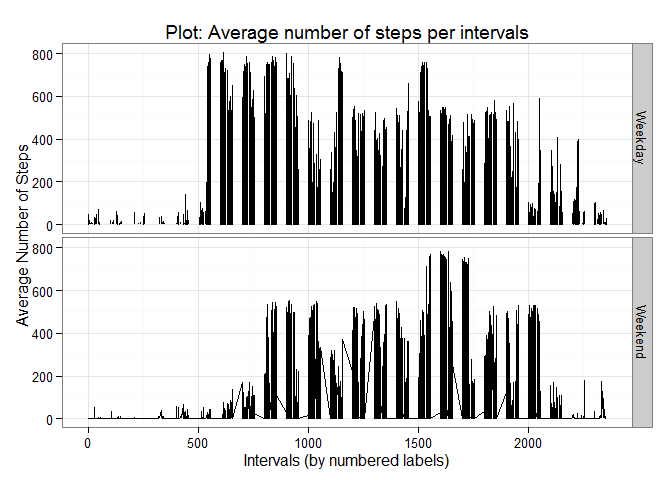
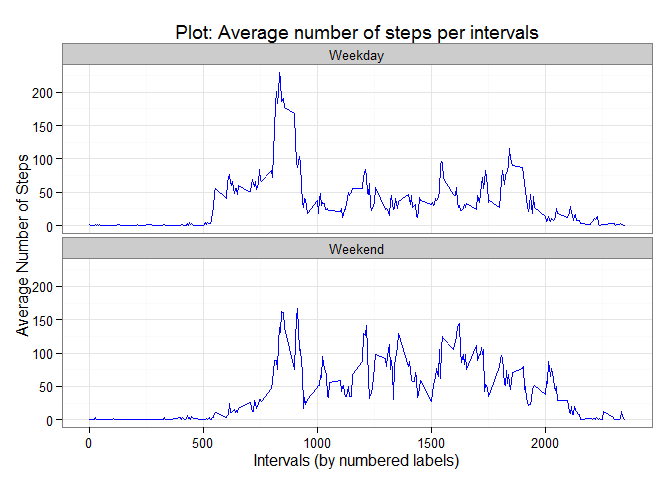
All validated & Defects Corrected
All validated & Defects Corrected

diff --git a/PA1_template.html b/PA1_template.html
@@ -93,8 +93,7 @@ library(dplyr)</code></pre>
 ## The following objects are masked from 'package:base':
 ## 
 ##     intersect, setdiff, setequal, union</code></pre>
-<pre class="r"><code>#library(tidyr)
-library(ggplot2)
+<pre class="r"><code>library(ggplot2)
 
 # Loading the data
 tracking_data &lt;- tbl_df(read.csv(file=&quot;./activity.csv&quot;))
@@ -225,7 +224,7 @@ nrow(tracking_data) - sum(complete.cases(tracking_data))</code></pre>
 <ol start="2" style="list-style-type: decimal">
 <li>Devise a strategy for filling in all of the missing values in the dataset. The strategy does not need to be sophisticated. For example, you could use the mean/median for that day, or the mean for that 5-minute interval, etc.</li>
 </ol>
-<p>For each row with an ‘NA’ value for the ‘steps’ variable, retrieve the mean value for that time intervals and insert it for that observations.</p>
+<p>For each row with an ‘NA’ value for the ‘steps’ variable, retrieve the mean value for that specific time intervals (using the analysis when all ‘NA’ values are ignored) and insert it for that specific observation. The same process is applied for all rows (i.e. observations) matching that criteria.</p>
 <ol start="3" style="list-style-type: decimal">
 <li>Create a new dataset that is equal to the original dataset but with the missing data filled in.</li>
 </ol>
@@ -233,8 +232,9 @@ nrow(tracking_data) - sum(complete.cases(tracking_data))</code></pre>
 tracking_data_copy &lt;- tracking_data
 
 # Assign the mean for the 'NA'ed steps variable
-tracking_data_copy[!complete.cases(tracking_data_copy), ]$steps &lt;- 
-  avg_daily_pattern[avg_daily_pattern$interval == tracking_data_copy[!complete.cases(tracking_data_copy), ]$interval, ]$AVGNUMBERSTEPS
+missing_val &lt;- tracking_data_copy[is.na(tracking_data_copy$steps),]
+missing_index &lt;- match(missing_val$interval,avg_daily_pattern$interval)
+tracking_data_copy$steps[is.na(tracking_data_copy$steps)] &lt;- avg_daily_pattern$AVGNUMBERSTEPS[missing_index]
 
 # For future references
 #write.csv(tracking_data_copy, file=&quot;tracking_data_copy.csv&quot;, row.names=FALSE)</code></pre>
@@ -257,7 +257,7 @@ ggplot(total_steps_completed_analysis, aes(x=DATE)) +
   labs(title=&quot;Histogram: Total Number of Steps each day&quot;) +
   labs(subtitle=&quot;Cases were completed for variable 'steps' with 'NA' value.&quot;) +
   theme_bw()</code></pre>
[2 lines of base64/hex data omitted]
 <pre class="r"><code># Limit the report to the required variables (date, average total of steps and median of steps, in this case)
 total_steps_completed_analysis %&gt;%
   select(DATE, AVGTOTALSTEPS, MEDIANTOTALSTEPS) %&gt;%
@@ -272,10 +272,75 @@ total_steps_completed_analysis %&gt;%
 ## 5  2012-10-05      46.15972          0.00000
 ## 6  2012-10-06      53.54167          0.00000
 ## 7  2012-10-07      38.24653          0.00000
-## 8  2012-10-08            NA               NA
+## 8  2012-10-08      37.38260         34.11321
 ## 9  2012-10-09      44.48264          0.00000
 ## 10 2012-10-10      34.37500          0.00000
 ## ..        ...           ...              ...</code></pre>
+<pre class="r"><code># Examine and print out the differences between the original and new analysis of the steps count
+total_steps_completed_analysis - total_steps_analysis</code></pre>
+<pre><code>##      DATE TOTALSTEPS AVGTOTALSTEPS MEDIANTOTALSTEPS
+## 1  0 days   10766.19           NaN               NA
+## 2  0 days       0.00             0                0
+## 3  0 days       0.00             0                0
+## 4  0 days       0.00             0                0
+## 5  0 days       0.00             0                0
+## 6  0 days       0.00             0                0
+## 7  0 days       0.00             0                0
+## 8  0 days   10766.19           NaN               NA
+## 9  0 days       0.00             0                0
+## 10 0 days       0.00             0                0
+## 11 0 days       0.00             0                0
+## 12 0 days       0.00             0                0
+## 13 0 days       0.00             0                0
+## 14 0 days       0.00             0                0
+## 15 0 days       0.00             0                0
+## 16 0 days       0.00             0                0
+## 17 0 days       0.00             0                0
+## 18 0 days       0.00             0                0
+## 19 0 days       0.00             0                0
+## 20 0 days       0.00             0                0
+## 21 0 days       0.00             0                0
+## 22 0 days       0.00             0                0
+## 23 0 days       0.00             0                0
+## 24 0 days       0.00             0                0
+## 25 0 days       0.00             0                0
+## 26 0 days       0.00             0                0
+## 27 0 days       0.00             0                0
+## 28 0 days       0.00             0                0
+## 29 0 days       0.00             0                0
+## 30 0 days       0.00             0                0
+## 31 0 days       0.00             0                0
+## 32 0 days   10766.19           NaN               NA
+## 33 0 days       0.00             0                0
+## 34 0 days       0.00             0                0
+## 35 0 days   10766.19           NaN               NA
+## 36 0 days       0.00             0                0
+## 37 0 days       0.00             0                0
+## 38 0 days       0.00             0                0
+## 39 0 days       0.00             0                0
+## 40 0 days   10766.19           NaN               NA
+## 41 0 days   10766.19           NaN               NA
+## 42 0 days       0.00             0                0
+## 43 0 days       0.00             0                0
+## 44 0 days       0.00             0                0
+## 45 0 days   10766.19           NaN               NA
+## 46 0 days       0.00             0                0
+## 47 0 days       0.00             0                0
+## 48 0 days       0.00             0                0
+## 49 0 days       0.00             0                0
+## 50 0 days       0.00             0                0
+## 51 0 days       0.00             0                0
+## 52 0 days       0.00             0                0
+## 53 0 days       0.00             0                0
+## 54 0 days       0.00             0                0
+## 55 0 days       0.00             0                0
+## 56 0 days       0.00             0                0
+## 57 0 days       0.00             0                0
+## 58 0 days       0.00             0                0
+## 59 0 days       0.00             0                0
+## 60 0 days       0.00             0                0
+## 61 0 days   10766.19           NaN               NA</code></pre>
+<p>Has demonstrated by “subtracting” both analysis (with and without completion for the missing values), there are little differences for the days in both average and median <em><strong>with the exception</strong></em> of the days where the interval with ‘NA’ were replaced by a the average number of steps, causing a large differences in the total. All others have no differences.</p>
 </div>
 <div id="are-there-differences-in-activity-patterns-between-weekdays-and-weekends" class="section level2">
 <h2>Are there differences in activity patterns between weekdays and weekends?</h2>
@@ -283,28 +348,32 @@ total_steps_completed_analysis %&gt;%
 <ol style="list-style-type: decimal">
 <li>Create a new factor variable in the dataset with two levels - “weekday” and “weekend” indicating whether a given date is a weekday or weekend day.</li>
 </ol>
-<pre class="r"><code>tracking_data_copy_withdaytype &lt;- tracking_data_copy %&gt;%
+<pre class="r"><code># Creating a new variable 'DAYTYPE' to identify if the day for that specific date is a weekday or a weekend.
+tracking_data_copy_withdaytype &lt;- tracking_data_copy %&gt;%
   mutate(DAYLABEL = weekdays(DATE)) %&gt;%
   mutate(DAYTYPE = ifelse(DAYLABEL %in% c(&quot;Monday&quot;, &quot;Tuesday&quot;, &quot;Wednesday&quot;, &quot;Thursday&quot;, &quot;Friday&quot;), &quot;Weekday&quot;, &quot;Weekend&quot;)) %&gt;%
-  mutate(DAYTYPE = factor(DAYTYPE, levels=c(&quot;Weekday&quot;, &quot;Weekend&quot;), labels=c(&quot;Weekday&quot;, &quot;Weekend&quot;)))</code></pre>
+  mutate(DAYTYPE = factor(DAYTYPE, levels=c(&quot;Weekday&quot;, &quot;Weekend&quot;), labels=c(&quot;Weekday&quot;, &quot;Weekend&quot;))) %&gt;%
+  select(interval, DAYTYPE, DATE, steps)
+
+# For future references
+#write.csv(tracking_data_copy_withdaytype, file=&quot;tracking_data_copy_withdaytype.csv&quot;, row.names=FALSE)</code></pre>
 <ol start="2" style="list-style-type: decimal">
 <li>Make a panel plot containing a time series plot (i.e. type = “l”) of the 5-minute interval (x-axis) and the average number of steps taken, averaged across all weekday days or weekend days (y-axis). See the README file in the GitHub repository to see an example of what this plot should look like using simulated data.</li>
 </ol>
 <pre class="r"><code># Producing the analysis
 avg_daily_pattern_completed &lt;- tracking_data_copy_withdaytype %&gt;%
-  group_by(interval, DATE, DAYTYPE) %&gt;%
+  group_by(interval, DAYTYPE) %&gt;%
   summarise(AVGNUMBERSTEPS = mean(steps))
 
 # Produce the related plot
-ggplot(avg_daily_pattern_completed, aes(interval)) +
-  facet_grid(DAYTYPE ~ .) +
-  geom_line(aes(y=AVGNUMBERSTEPS)) +
+ggplot(avg_daily_pattern_completed, aes(x=interval, y=AVGNUMBERSTEPS)) +
+  geom_line(col=&quot;blue&quot;) +
+  facet_wrap( ~ DAYTYPE, ncol=1) +
   xlab(&quot;Intervals (by numbered labels)&quot;) +
   ylab(&quot;Average Number of Steps&quot;) +
   labs(title=&quot;Plot: Average number of steps per intervals&quot;) +
   theme_bw()</code></pre>
-<pre><code>## Warning: Removed 1 rows containing missing values (geom_path).</code></pre>
[2 lines of base64/hex data omitted]
 </div>
 
 

diff --git a/PA1_template.md b/PA1_template.md
@@ -42,7 +42,6 @@ library(dplyr)
 ```
 
 ```r
-#library(tidyr)
 library(ggplot2)
 
 # Loading the data
@@ -223,7 +222,7 @@ nrow(tracking_data) - sum(complete.cases(tracking_data))
 
 2. Devise a strategy for filling in all of the missing values in the dataset. The strategy does not need to be sophisticated. For example, you could use the mean/median for that day, or the mean for that 5-minute interval, etc.
 
-For each row with an 'NA' value for the 'steps' variable, retrieve the mean value for that time intervals and insert it for that observations.
+For each row with an 'NA' value for the 'steps' variable, retrieve the mean value for that specific time intervals (using the analysis when all 'NA' values are ignored) and insert it for that specific observation.  The same process is applied for all rows (i.e. observations) matching that criteria.
 
 
 3. Create a new dataset that is equal to the original dataset but with the missing data filled in.
@@ -234,8 +233,9 @@ For each row with an 'NA' value for the 'steps' variable, retrieve the mean valu
 tracking_data_copy <- tracking_data
 
 # Assign the mean for the 'NA'ed steps variable
-tracking_data_copy[!complete.cases(tracking_data_copy), ]$steps <- 
-  avg_daily_pattern[avg_daily_pattern$interval == tracking_data_copy[!complete.cases(tracking_data_copy), ]$interval, ]$AVGNUMBERSTEPS
+missing_val <- tracking_data_copy[is.na(tracking_data_copy$steps),]
+missing_index <- match(missing_val$interval,avg_daily_pattern$interval)
+tracking_data_copy$steps[is.na(tracking_data_copy$steps)] <- avg_daily_pattern$AVGNUMBERSTEPS[missing_index]
 
 # For future references
 #write.csv(tracking_data_copy, file="tracking_data_copy.csv", row.names=FALSE)
@@ -283,11 +283,83 @@ total_steps_completed_analysis %>%
 ## 5  2012-10-05      46.15972          0.00000
 ## 6  2012-10-06      53.54167          0.00000
 ## 7  2012-10-07      38.24653          0.00000
-## 8  2012-10-08            NA               NA
+## 8  2012-10-08      37.38260         34.11321
 ## 9  2012-10-09      44.48264          0.00000
 ## 10 2012-10-10      34.37500          0.00000
 ## ..        ...           ...              ...
 ```
+
+```r
+# Examine and print out the differences between the original and new analysis of the steps count
+total_steps_completed_analysis - total_steps_analysis
+```
+
+```
+##      DATE TOTALSTEPS AVGTOTALSTEPS MEDIANTOTALSTEPS
+## 1  0 days   10766.19           NaN               NA
+## 2  0 days       0.00             0                0
+## 3  0 days       0.00             0                0
+## 4  0 days       0.00             0                0
+## 5  0 days       0.00             0                0
+## 6  0 days       0.00             0                0
+## 7  0 days       0.00             0                0
+## 8  0 days   10766.19           NaN               NA
+## 9  0 days       0.00             0                0
+## 10 0 days       0.00             0                0
+## 11 0 days       0.00             0                0
+## 12 0 days       0.00             0                0
+## 13 0 days       0.00             0                0
+## 14 0 days       0.00             0                0
+## 15 0 days       0.00             0                0
+## 16 0 days       0.00             0                0
+## 17 0 days       0.00             0                0
+## 18 0 days       0.00             0                0
+## 19 0 days       0.00             0                0
+## 20 0 days       0.00             0                0
+## 21 0 days       0.00             0                0
+## 22 0 days       0.00             0                0
+## 23 0 days       0.00             0                0
+## 24 0 days       0.00             0                0
+## 25 0 days       0.00             0                0
+## 26 0 days       0.00             0                0
+## 27 0 days       0.00             0                0
+## 28 0 days       0.00             0                0
+## 29 0 days       0.00             0                0
+## 30 0 days       0.00             0                0
+## 31 0 days       0.00             0                0
+## 32 0 days   10766.19           NaN               NA
+## 33 0 days       0.00             0                0
+## 34 0 days       0.00             0                0
+## 35 0 days   10766.19           NaN               NA
+## 36 0 days       0.00             0                0
+## 37 0 days       0.00             0                0
+## 38 0 days       0.00             0                0
+## 39 0 days       0.00             0                0
+## 40 0 days   10766.19           NaN               NA
+## 41 0 days   10766.19           NaN               NA
+## 42 0 days       0.00             0                0
+## 43 0 days       0.00             0                0
+## 44 0 days       0.00             0                0
+## 45 0 days   10766.19           NaN               NA
+## 46 0 days       0.00             0                0
+## 47 0 days       0.00             0                0
+## 48 0 days       0.00             0                0
+## 49 0 days       0.00             0                0
+## 50 0 days       0.00             0                0
+## 51 0 days       0.00             0                0
+## 52 0 days       0.00             0                0
+## 53 0 days       0.00             0                0
+## 54 0 days       0.00             0                0
+## 55 0 days       0.00             0                0
+## 56 0 days       0.00             0                0
+## 57 0 days       0.00             0                0
+## 58 0 days       0.00             0                0
+## 59 0 days       0.00             0                0
+## 60 0 days       0.00             0                0
+## 61 0 days   10766.19           NaN               NA
+```
+
+Has demonstrated by "subtracting" both analysis (with and without completion for the missing values), there are little differences for the days in both average and median _**with the exception**_ of the days where the interval with 'NA' were replaced by a the average number of steps, causing a large differences in the total.  All others have no differences.
 
 
 ## Are there differences in activity patterns between weekdays and weekends?
@@ -298,10 +370,15 @@ For this part the weekdays() function may be of some help here. Use the dataset 
 
 
 ```r
+# Creating a new variable 'DAYTYPE' to identify if the day for that specific date is a weekday or a weekend.
 tracking_data_copy_withdaytype <- tracking_data_copy %>%
   mutate(DAYLABEL = weekdays(DATE)) %>%
   mutate(DAYTYPE = ifelse(DAYLABEL %in% c("Monday", "Tuesday", "Wednesday", "Thursday", "Friday"), "Weekday", "Weekend")) %>%
-  mutate(DAYTYPE = factor(DAYTYPE, levels=c("Weekday", "Weekend"), labels=c("Weekday", "Weekend")))
+  mutate(DAYTYPE = factor(DAYTYPE, levels=c("Weekday", "Weekend"), labels=c("Weekday", "Weekend"))) %>%
+  select(interval, DAYTYPE, DATE, steps)
+
+# For future references
+#write.csv(tracking_data_copy_withdaytype, file="tracking_data_copy_withdaytype.csv", row.names=FALSE)
 ```
 
 
@@ -311,21 +388,17 @@ tracking_data_copy_withdaytype <- tracking_data_copy %>%
 ```r
 # Producing the analysis
 avg_daily_pattern_completed <- tracking_data_copy_withdaytype %>%
-  group_by(interval, DATE, DAYTYPE) %>%
+  group_by(interval, DAYTYPE) %>%
   summarise(AVGNUMBERSTEPS = mean(steps))
 
 # Produce the related plot
-ggplot(avg_daily_pattern_completed, aes(interval)) +
-  facet_grid(DAYTYPE ~ .) +
-  geom_line(aes(y=AVGNUMBERSTEPS)) +
+ggplot(avg_daily_pattern_completed, aes(x=interval, y=AVGNUMBERSTEPS)) +
+  geom_line(col="blue") +
+  facet_wrap( ~ DAYTYPE, ncol=1) +
   xlab("Intervals (by numbered labels)") +
   ylab("Average Number of Steps") +
   labs(title="Plot: Average number of steps per intervals") +
   theme_bw()
-```
-
-```
-## Warning: Removed 1 rows containing missing values (geom_path).
 ```
 
 ![](PA1_template_files/figure-html/unnamed-chunk-11-1.png) 
